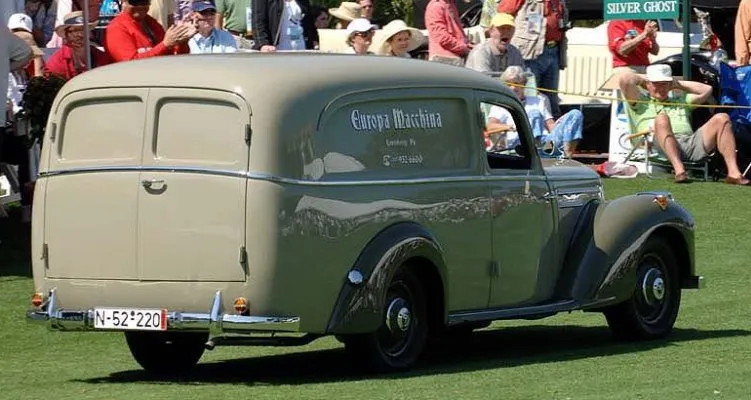
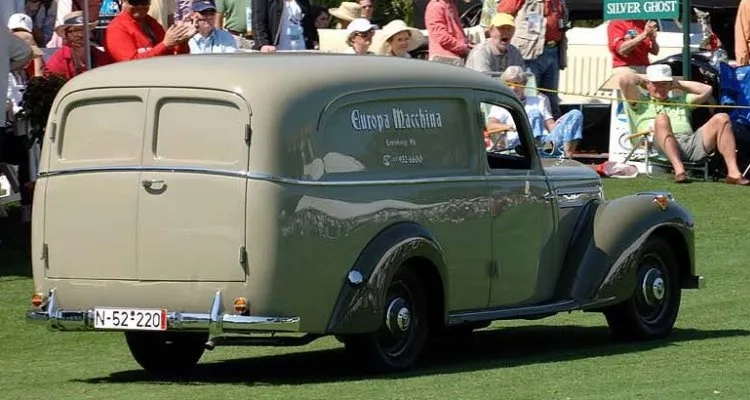
246

diff --git a/pic/ja_mb_img_s.html b/pic/ja_mb_img_s.html
@@ -375,7 +375,7 @@
 						<a href="full/s/w187_d.jpg"><img loading="lazy" src="style/s/w187_d.webp" alt="メルセデス,W187,ダッシュボード" width="567" height="425"></a>
 						<h5>Delivery Van</h5>
 						<a href="full/s/w187k_f.jpg"><img loading="lazy" src="style/s/w187k_f.webp" alt="メルセデス,W187,配達車,フロント" width="455" height="400"></a>
-						<a href="full/s/w187k_r.jpg"><img loading="lazy" src="style/s/w187k_r.webp" alt="メルセデス,W187,配達車,リヤ" width="751" height="400"></a>
+						<a href="full/s/w187k_r.jpg"><img loading="lazy" src="style/s/w187k_r.webp" alt="メルセデス,W187,配達車,リヤ" width="750" height="400"></a>
 					</section>
 				</div>
 			</div>

diff --git a/pic/mb_img_s.html b/pic/mb_img_s.html
@@ -375,7 +375,7 @@
 						<a href="full/s/w187_d.jpg"><img loading="lazy" src="style/s/w187_d.webp" alt="Mercedes,W187,Instrumententafel" width="567" height="425"></a>
 						<h5>Lieferwagen</h5>
 						<a href="full/s/w187k_f.jpg"><img loading="lazy" src="style/s/w187k_f.webp" alt="Mercedes,W187,Lieferwagen,Frontansicht" width="455" height="400"></a>
-						<a href="full/s/w187k_r.jpg"><img loading="lazy" src="style/s/w187k_r.webp" alt="Mercedes,W187,Lieferwagen,Rückansicht" width="751" height="400"></a>
+						<a href="full/s/w187k_r.jpg"><img loading="lazy" src="style/s/w187k_r.webp" alt="Mercedes,W187,Lieferwagen,Rückansicht" width="750" height="400"></a>
 					</section>
 				</div>
 			</div>

diff --git a/pic/en_mb_img_s.html b/pic/en_mb_img_s.html
@@ -375,7 +375,7 @@
 						<a href="full/s/w187_d.jpg"><img loading="lazy" src="style/s/w187_d.webp" alt="Mercedes,W187,Dashboard" width="567" height="425"></a>
 						<h5>Delivery Van</h5>
 						<a href="full/s/w187k_f.jpg"><img loading="lazy" src="style/s/w187k_f.webp" alt="Mercedes,W187,Delivery Van,Front view" width="455" height="400"></a>
-						<a href="full/s/w187k_r.jpg"><img loading="lazy" src="style/s/w187k_r.webp" alt="Mercedes,W187,Delivery Van,Rear view" width="751" height="400"></a>
+						<a href="full/s/w187k_r.jpg"><img loading="lazy" src="style/s/w187k_r.webp" alt="Mercedes,W187,Delivery Van,Rear view" width="750" height="400"></a>
 					</section>
 				</div>
 			</div>
